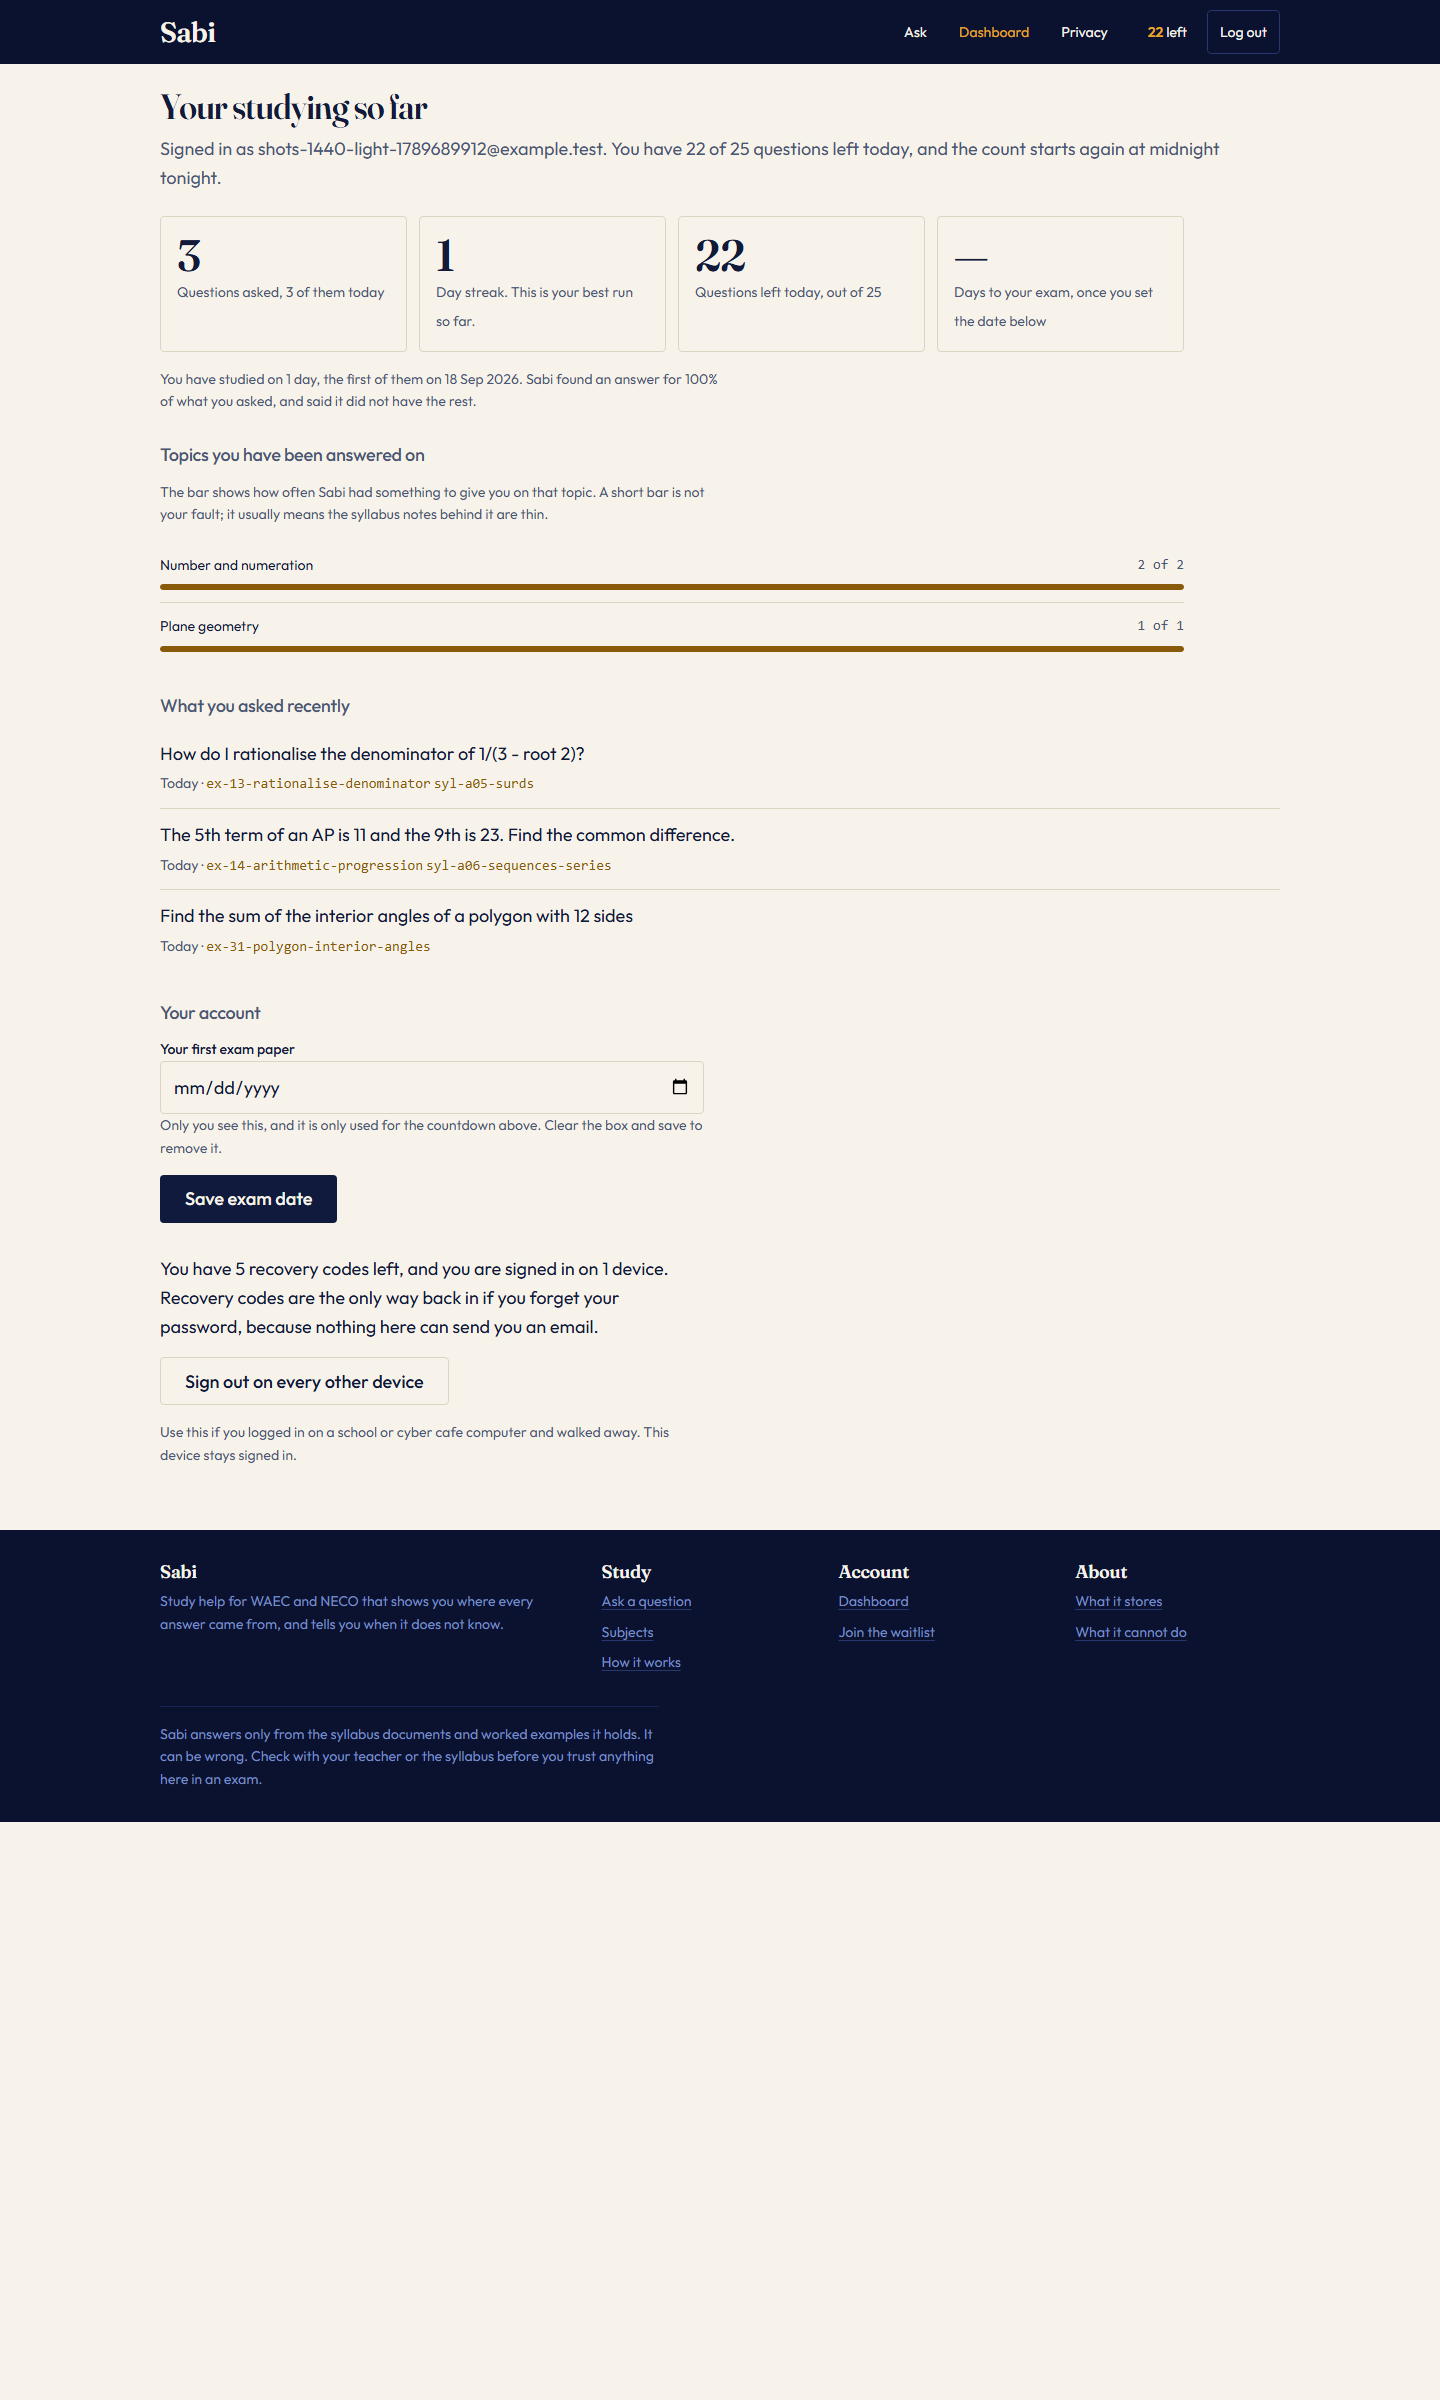
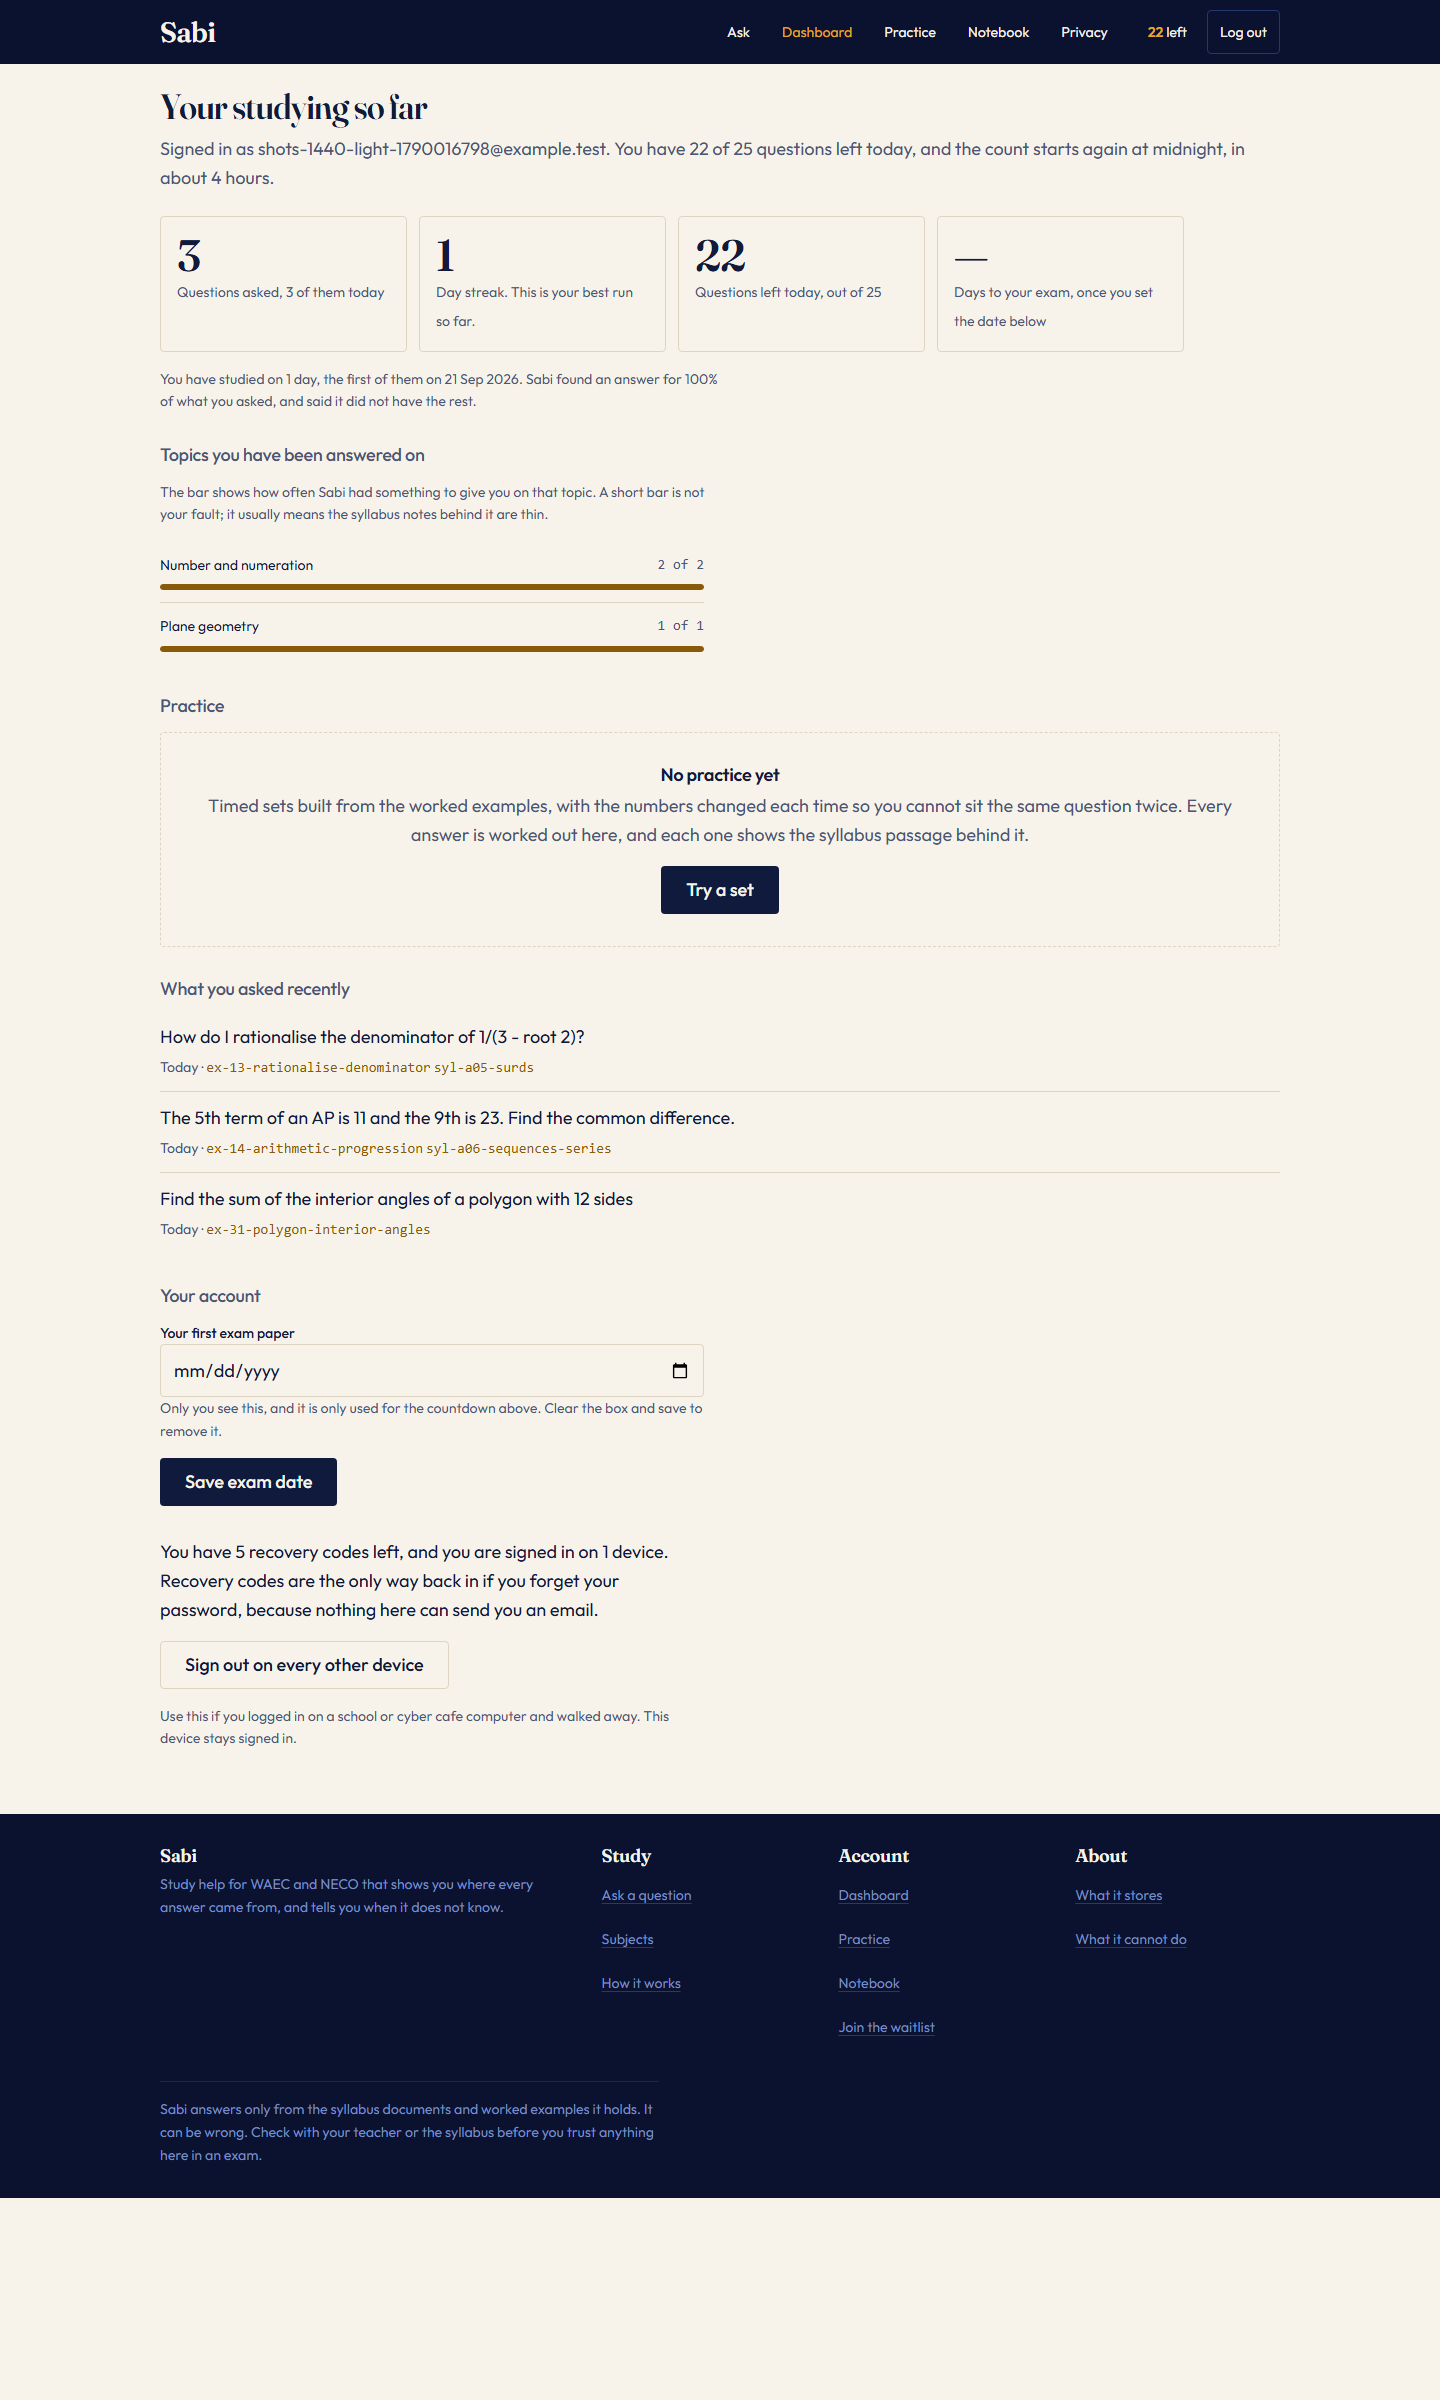
Make practice reachable on a phone, and stop a locator wrapping
Two things a screenshot at 360px showed that no test could.

The masthead links are hidden below 1024px, and the footer listed only the
dashboard -- so on a phone, practice and the notebook could be reached only
by going through the dashboard first. Both are now in the footer.

`EX 01` is one token with a space in it. Left to wrap, it broke after `EX`
at phone width and read as two separate things, which is the opposite of
what a citation marker is for.

The screenshot tool now covers practice as well: the start page, an open
set, and a marked one, because the marked page is where the verdict colours
and the working sit and it lays out differently from the others. It presses
the real buttons rather than posting its own form, so the CSRF field comes
along -- an injected form is rejected as stale and would silently screenshot
the error page.

44 screenshots regenerated at 360 and 1440 in both themes. Checked the
practice ones by eye and re-derived every answer on them by hand: 554 base 8
is 364, a sphere of radius 35 has surface area 15400, the 7th term of 5, 15,
45 ... is 3645, 40 tan 55 is 57.1, |(10, 24)| is 26, and the simultaneous
pair solves to x = -4.

diff --git a/sabi/api/templates/base.html b/sabi/api/templates/base.html
@@ -92,6 +92,11 @@
         <ul>
           {% if viewer and viewer.is_authenticated %}
           <li><a href="/dashboard">Dashboard</a></li>
+          {# The masthead links are hidden below 1024px, so without these two
+             a student on a phone can only reach practice and the notebook by
+             going through the dashboard first. #}
+          <li><a href="/practice">Practice</a></li>
+          <li><a href="/notebook">Notebook</a></li>
           {% else %}
           <li><a href="/signup">Create an account</a></li>
           <li><a href="/login">Log in</a></li>

diff --git a/sabi/api/static/sabi.css b/sabi/api/static/sabi.css
@@ -1417,6 +1417,10 @@ input:focus-visible, textarea:focus-visible, select:focus-visible {
   font-family: var(--mono);
   color: var(--evidence);
   font-weight: 500;
+  /* `EX 01` is one token with a space in it. Left to wrap, it breaks after
+   * `EX` at 360px and reads as two separate things -- which is the opposite
+   * of what a citation marker is for. */
+  white-space: nowrap;
 }
 
 .source .attribution { color: var(--ink-soft); margin-right: auto; }

diff --git a/tools/shots.py b/tools/shots.py
@@ -34,7 +34,7 @@ SURFACES = [
 
 # Reached only by signing up, so they are captured in a second pass that
 # creates a throwaway account and asks a few questions first.
-ACCOUNT_SURFACES = [("dashboard", "/dashboard")]
+ACCOUNT_SURFACES = [("dashboard", "/dashboard"), ("practice", "/practice")]
 
 WIDTHS = [("360", 360, 3200), ("1440", 1440, 2400)]
 
@@ -75,6 +75,36 @@ def shoot_account(browser, base, out, label, width, height, theme, scale=1) -> i
             page.screenshot(path=str(out / name), full_page=True)
             print(f"  {name}")
             written += 1
+
+        # A practice set, reached by pressing the real button, then marked --
+        # the marked page is the one worth looking at, because it is where
+        # the verdict colours and the working sit. Both are shot: an empty
+        # set and a marked one lay out differently at 360.
+        page.goto(base + "/practice", wait_until="load")
+        page.click(".practice-start button[type=submit]")
+        page.wait_for_load_state("load")
+        page.wait_for_timeout(200)
+        name = f"practice-set-{label}-{theme}.png"
+        page.screenshot(path=str(out / name), full_page=True)
+        print(f"  {name}")
+        written += 1
+
+        # By name, not position: the CSRF field is the first input in every
+        # form here, so `.practice-answer input` resolves to a hidden field.
+        answers = page.locator('.practice-answer input[name="given"]')
+        for index in range(min(3, answers.count())):
+            answers.nth(index).fill("150")
+            page.locator(".practice-answer button[type=submit]").nth(index).click()
+            page.wait_for_load_state("load")
+            answers = page.locator('.practice-answer input[name="given"]')
+
+        page.click("form[action$='/finish'] button[type=submit]")
+        page.wait_for_load_state("load")
+        page.wait_for_timeout(200)
+        name = f"practice-marked-{label}-{theme}.png"
+        page.screenshot(path=str(out / name), full_page=True)
+        print(f"  {name}")
+        written += 1
         return written
     finally:
         context.close()
